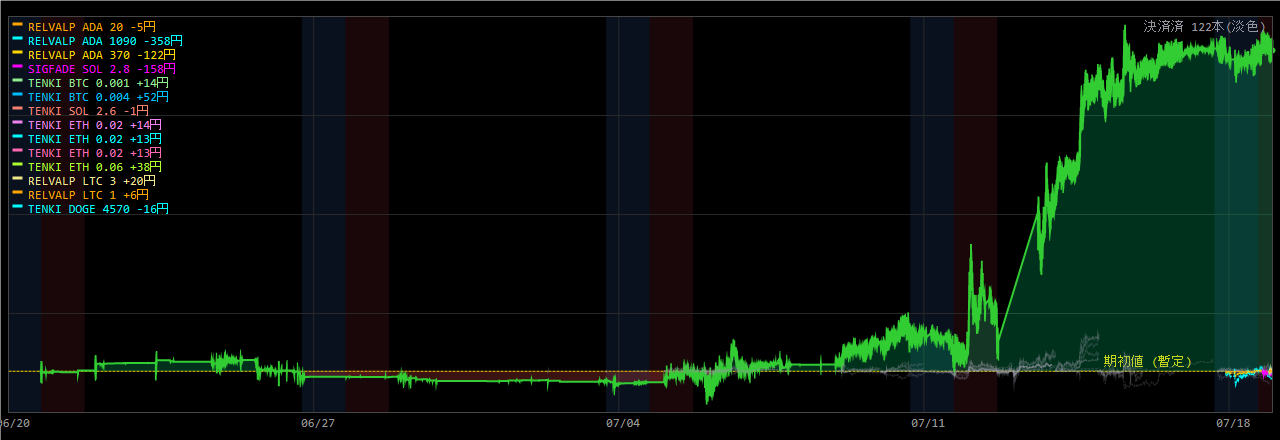
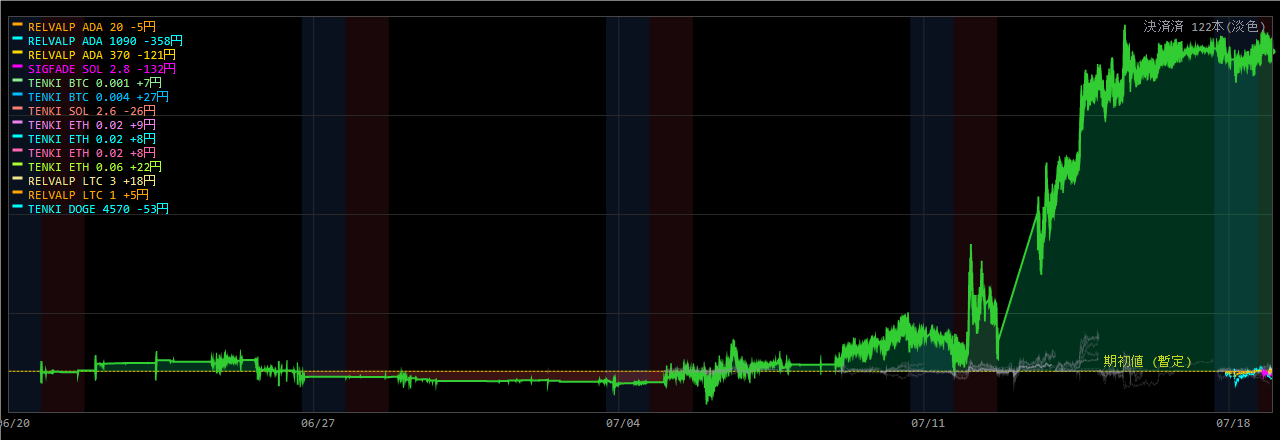
Coin100S 運用状況更新 07-19 08:11

diff --git a/coin100s-795hc4jfv8/index.html b/coin100s-795hc4jfv8/index.html
@@ -14,16 +14,16 @@ a{color:#60a5fa;text-decoration:none} a:hover{text-decoration:underline}
 .meta{color:#94a3b8;font-size:13px}</style>
 <script>setTimeout(function(){location.replace(location.pathname+"?t="+Date.now());},300000);</script></head><body>
 <h1>Coin100S ダッシュボード</h1>
-<p class="meta">スナップショット: 2026-07-19 08:04:50(自動リロード・最新化)</p>
+<p class="meta">スナップショット: 2026-07-19 08:10:50(自動リロード・最新化)</p>
 <div class="cards">
 <div class="card">建玉数<div class="v">14</div></div>
 <div class="card">本日損益<div class="v pos">+131円</div></div>
-<div class="card">評価損益<div class="v neg">-539円</div></div>
+<div class="card">評価損益<div class="v neg">-611円</div></div>
 </div>
 <h2>現在の建玉</h2>
-<table><tr><th>銘柄</th><th>側</th><th>数量</th><th>建値</th><th>含損益</th><th>レッグ</th></tr><tr><td>ADA_JPY</td><td>SELL</td><td>370</td><td>@27</td><td>-124円</td><td>RELVALP_SL700</td></tr><tr><td>ADA_JPY</td><td>SELL</td><td>1090</td><td>@27</td><td>-365円</td><td>RELVALP_SELL</td></tr><tr><td>ADA_JPY</td><td>SELL</td><td>20</td><td>@27</td><td>-5円</td><td>RELVALP_SELL</td></tr><tr><td>BTC_JPY</td><td>BUY</td><td>0.004</td><td>@10,508,065</td><td>+47円</td><td>TENKI5D_REV_BTC</td></tr><tr><td>BTC_JPY</td><td>BUY</td><td>0.001</td><td>@10,507,259</td><td>+12円</td><td>TENKI5D_REV_BTC</td></tr><tr><td>DOGE_JPY</td><td>BUY</td><td>4570</td><td>@12</td><td>-14円</td><td>TENKI5D_REV_DOGE</td></tr><tr><td>ETH_JPY</td><td>BUY</td><td>0.06</td><td>@301,910</td><td>+35円</td><td>TENKI5D_REV_ETH</td></tr><tr><td>ETH_JPY</td><td>BUY</td><td>0.02</td><td>@301,895</td><td>+12円</td><td>TENKI5D_REV_ETH</td></tr><tr><td>ETH_JPY</td><td>BUY</td><td>0.02</td><td>@301,872</td><td>+12円</td><td>TENKI5D_REV_ETH</td></tr><tr><td>ETH_JPY</td><td>BUY</td><td>0.02</td><td>@301,849</td><td>+13円</td><td>TENKI5D_REV_ETH</td></tr><tr><td>LTC_JPY</td><td>SELL</td><td>1</td><td>@7,635</td><td>-1円</td><td>RELVALP_SL700</td></tr><tr><td>LTC_JPY</td><td>SELL</td><td>3</td><td>@7,636</td><td>0円</td><td>RELVALP_SELL</td></tr><tr><td>SOL_JPY</td><td>BUY</td><td>2.6</td><td>@12,258</td><td>+7円</td><td>TENKI5D_REV_SOL</td></tr><tr><td>SOL_JPY</td><td>SELL</td><td>2.8</td><td>@12,201</td><td>-168円</td><td>SIGFADE_SOL</td></tr></table>
+<table><tr><th>銘柄</th><th>側</th><th>数量</th><th>建値</th><th>含損益</th><th>レッグ</th></tr><tr><td>ADA_JPY</td><td>SELL</td><td>370</td><td>@27</td><td>-124円</td><td>RELVALP_SL700</td></tr><tr><td>ADA_JPY</td><td>SELL</td><td>1090</td><td>@27</td><td>-365円</td><td>RELVALP_SELL</td></tr><tr><td>ADA_JPY</td><td>SELL</td><td>20</td><td>@27</td><td>-5円</td><td>RELVALP_SELL</td></tr><tr><td>BTC_JPY</td><td>BUY</td><td>0.004</td><td>@10,508,065</td><td>+20円</td><td>TENKI5D_REV_BTC</td></tr><tr><td>BTC_JPY</td><td>BUY</td><td>0.001</td><td>@10,507,259</td><td>+5円</td><td>TENKI5D_REV_BTC</td></tr><tr><td>DOGE_JPY</td><td>BUY</td><td>4570</td><td>@12</td><td>-14円</td><td>TENKI5D_REV_DOGE</td></tr><tr><td>ETH_JPY</td><td>BUY</td><td>0.06</td><td>@301,910</td><td>+15円</td><td>TENKI5D_REV_ETH</td></tr><tr><td>ETH_JPY</td><td>BUY</td><td>0.02</td><td>@301,895</td><td>+5円</td><td>TENKI5D_REV_ETH</td></tr><tr><td>ETH_JPY</td><td>BUY</td><td>0.02</td><td>@301,872</td><td>+5円</td><td>TENKI5D_REV_ETH</td></tr><tr><td>ETH_JPY</td><td>BUY</td><td>0.02</td><td>@301,849</td><td>+6円</td><td>TENKI5D_REV_ETH</td></tr><tr><td>LTC_JPY</td><td>SELL</td><td>1</td><td>@7,635</td><td>-1円</td><td>RELVALP_SL700</td></tr><tr><td>LTC_JPY</td><td>SELL</td><td>3</td><td>@7,636</td><td>0円</td><td>RELVALP_SELL</td></tr><tr><td>SOL_JPY</td><td>BUY</td><td>2.6</td><td>@12,258</td><td>-29円</td><td>TENKI5D_REV_SOL</td></tr><tr><td>SOL_JPY</td><td>SELL</td><td>2.8</td><td>@12,201</td><td>-129円</td><td>SIGFADE_SOL</td></tr></table>
 <p><a href="status.html"><b>▶ 運用状況の詳細(チャート・本日の取引・レジーム)</b></a></p>
 <h2>日報一覧</h2>
 <table><tr><th>取引日</th><th>実現損益</th><th>総括</th></tr><tr><td><a href='reports/20260718_Coin100S日報.html'>2026-07-18</a></td><td class="pos">+0円</td><td class='meta'>実取引: 新規9件/決済8件、実現損益 +0円。警告/孤児/エラーなし＝健全。</td></tr><tr><td><a href='reports/20260717_Coin100S日報.html'>2026-07-17</a></td><td class="pos">+0円</td><td class='meta'>実取引: 新規3件/決済2件、実現損益 +0円。シグナル却下1件（最多: BW10M3_5M／トレンド方向ゲート(N分傾き下と不一致=逆張り方向のfade禁止)）。⚠警告/エラー 2件（要確認）。</td></tr><tr><td><a href='reports/20260716_Coin100S日報.html'>2026-07-16</a></td><td class="pos">+0円</td><td class='meta'>実取引: 新規0件/決済5件、実現損益 +0円。⚠警告/エラー 7件（要確認）。</td></tr><tr><td><a href='reports/20260715_Coin100S日報.html'>2026-07-15</a></td><td class="pos">+0円</td><td class='meta'>実取引: 新規6件/決済5件、実現損益 +0円。シグナル却下6件（最多: BW10M3_5M／トレンド方向ゲート(N分傾き上と不一致=逆張り方向のfade禁止)）。⚠警告/エラー 7件（要確認）。</td></tr><tr><td><a href='reports/20260714_Coin100S日報.html'>2026-07-14</a></td><td class="pos">+0円</td><td class='meta'>実取引: 新規6件/決済18件、実現損益 +0円。シグナル却下5件（最多: BW10M3_5M／トレンド方向ゲート(N分傾き上と不一致=逆張り方向のfade禁止)）。⚠警告/エラー 9件（要確認）。</td></tr><tr><td><a href='reports/20260713_Coin100S日報.html'>2026-07-13</a></td><td class="pos">+0円</td><td class='meta'>実取引: 新規5件/決済8件、実現損益 +0円。シグナル却下1件（最多: BW10M3_5M／トレンド方向ゲート(N分傾き上と不一致=逆張り方向のfade禁止)）。警告/孤児/エラーなし＝健全。</td></tr><tr><td><a href='reports/20260712_Coin100S日報.html'>2026-07-12</a></td><td class="pos">+0円</td><td class='meta'>実取引: 新規14件/決済6件、実現損益 +0円。シグナル却下5件（最多: BW10M3_5M／トレンド方向ゲート(N分傾き下と不一致=逆張り方向のfade禁止)）。⚠警告/エラー 2件（要確認）。</td></tr><tr><td><a href='reports/20260711_Coin100S日報.html'>2026-07-11</a></td><td class="pos">+0円</td><td class='meta'>実取引: 新規7件/決済6件、実現損益 +0円。⚠警告/エラー 52件（要確認）。</td></tr><tr><td><a href='reports/20260710_Coin100S日報.html'>2026-07-10</a></td><td class="pos">+0円</td><td class='meta'>実取引: 新規7件/決済6件、実現損益 +0円。シグナル却下6件（最多: BW10M3_5M／トレンド方向ゲート(N分傾き上と不一致=逆張り方向のfade禁止)）。警告/孤児/エラーなし＝健全。</td></tr><tr><td><a href='reports/20260709_Coin100S日報.html'>2026-07-09</a></td><td class="pos">+0円</td><td class='meta'>実取引: 新規8件/決済3件、実現損益 +0円。シグナル却下5件（最多: SD120M_5M／トレンド方向ゲート(N分傾き上と不一致=逆張り方向のfade禁止)）。警告/孤児/エラーなし＝健全。</td></tr><tr><td><a href='reports/20260708_Coin100S日報.html'>2026-07-08</a></td><td class="pos">+0円</td><td class='meta'>実取引: 新規2件/決済4件、実現損益 +0円。シグナル却下4件（最多: SD120M_5M／トレンド方向ゲート(N分傾き下と不一致=逆張り方向のfade禁止)）。警告/孤児/エラーなし＝健全。</td></tr><tr><td><a href='reports/20260707_Coin100S日報.html'>2026-07-07</a></td><td class="pos">+0円</td><td class='meta'>実取引: 新規8件/決済6件、実現損益 +0円。シグナル却下4件（最多: SD120M_5M／トレンド方向ゲート(N分傾き上と不一致=逆張り方向のfade禁止)）。⚠警告/エラー 258件（要確認）。</td></tr><tr><td><a href='reports/20260706_Coin100S日報.html'>2026-07-06</a></td><td class="pos">+0円</td><td class='meta'>実取引: 新規9件/決済6件、実現損益 +0円。シグナル却下9件（最多: SD120M_5M／トレンド方向ゲート(N分傾き上と不一致=逆張り方向のfade禁止)）。⚠警告/エラー 150件（要確認）。</td></tr><tr><td><a href='reports/20260705_Coin100S日報.html'>2026-07-05</a></td><td class="pos">+0円</td><td class='meta'>実取引: 新規8件/決済3件、実現損益 +0円。⚠警告/エラー 2件（要確認）。</td></tr><tr><td><a href='reports/20260704_Coin100S日報.html'>2026-07-04</a></td><td class="pos">+0円</td><td class='meta'>実取引: 新規1件/決済2件、実現損益 +0円。⚠警告/エラー 2件（要確認）。</td></tr><tr><td><a href='reports/20260703_Coin100S日報.html'>2026-07-03</a></td><td class="pos">+0円</td><td class='meta'>実取引: 新規5件/決済4件、実現損益 +0円。⚠警告/エラー 15件（要確認）。</td></tr><tr><td><a href='reports/20260702_Coin100S日報.html'>2026-07-02</a></td><td class="pos">+0円</td><td class='meta'>実取引: 新規7件/決済5件、実現損益 +0円。シグナル却下17件（最多: SD120M_5M／トレンド方向ゲート(N分傾き上と不一致=逆張り方向のfade禁止)）。⚠警告/エラー 26件（要確認）。</td></tr><tr><td><a href='reports/20260701_Coin100S日報.html'>2026-07-01</a></td><td class="pos">+0円</td><td class='meta'>実取引: 新規14件/決済8件、実現損益 +0円。シグナル却下14件（最多: SD120M_5M／ボラ軸ゲート(SDN%&amp;gt;N%=高ボラ/荒れレンジ)）。⚠警告/エラー 2件（要確認）。</td></tr><tr><td><a href='reports/20260630_Coin100S日報.html'>2026-06-30</a></td><td class="pos">+0円</td><td class='meta'>実取引: 新規0件/決済1件、実現損益 +0円。シグナル却下29件（最多: 微5M／当日枠N）。警告/孤児/エラーなし＝健全。</td></tr></table>
-<hr><p class="meta">更新: 2026-07-19 08:05:05 / 自動生成: tools/web_publish.py(§580)</p>
+<hr><p class="meta">更新: 2026-07-19 08:11:05 / 自動生成: tools/web_publish.py(§580)</p>
 </body></html>

diff --git a/coin100s-795hc4jfv8/status.html b/coin100s-795hc4jfv8/status.html
@@ -14,22 +14,22 @@ a{color:#60a5fa;text-decoration:none} a:hover{text-decoration:underline}
 .meta{color:#94a3b8;font-size:13px}</style>
 <script>setTimeout(function(){location.replace(location.pathname+"?t="+Date.now());},300000);</script></head><body>
 <h1>Coin100S 運用状況</h1>
-<p class="meta">スナップショット: 2026-07-19 08:04:50 / ページ生成: 2026-07-19 08:05:05(自動リロード・最新化) / <a href="index.html">目次へ</a></p>
+<p class="meta">スナップショット: 2026-07-19 08:10:50 / ページ生成: 2026-07-19 08:11:05(自動リロード・最新化) / <a href="index.html">目次へ</a></p>
 <div class="cards">
 <div class="card">建玉数<div class="v">14</div></div>
 <div class="card">本日損益<div class="v pos">+131円</div></div>
-<div class="card">評価損益<div class="v neg">-539円</div></div>
+<div class="card">評価損益<div class="v neg">-611円</div></div>
 </div>
 <h2>資産推移(直近30日)</h2>
-<img src="status_equity.png?t=0805" alt="equity">
+<img src="status_equity.png?t=0811" alt="equity">
 <h2>取引チャート(直近24h)</h2>
-<img src="status_chart.png?t=0805" alt="chart">
+<img src="status_chart.png?t=0811" alt="chart">
 <h2>建玉一覧</h2>
-<table><tr><th>銘柄</th><th>側</th><th>数量</th><th>建値</th><th>含損益</th><th>レッグ</th></tr><tr><td>ADA_JPY</td><td>SELL</td><td>370</td><td>@27</td><td>-124円</td><td>RELVALP_SL700</td></tr><tr><td>ADA_JPY</td><td>SELL</td><td>1090</td><td>@27</td><td>-365円</td><td>RELVALP_SELL</td></tr><tr><td>ADA_JPY</td><td>SELL</td><td>20</td><td>@27</td><td>-5円</td><td>RELVALP_SELL</td></tr><tr><td>BTC_JPY</td><td>BUY</td><td>0.004</td><td>@10,508,065</td><td>+47円</td><td>TENKI5D_REV_BTC</td></tr><tr><td>BTC_JPY</td><td>BUY</td><td>0.001</td><td>@10,507,259</td><td>+12円</td><td>TENKI5D_REV_BTC</td></tr><tr><td>DOGE_JPY</td><td>BUY</td><td>4570</td><td>@12</td><td>-14円</td><td>TENKI5D_REV_DOGE</td></tr><tr><td>ETH_JPY</td><td>BUY</td><td>0.06</td><td>@301,910</td><td>+35円</td><td>TENKI5D_REV_ETH</td></tr><tr><td>ETH_JPY</td><td>BUY</td><td>0.02</td><td>@301,895</td><td>+12円</td><td>TENKI5D_REV_ETH</td></tr><tr><td>ETH_JPY</td><td>BUY</td><td>0.02</td><td>@301,872</td><td>+12円</td><td>TENKI5D_REV_ETH</td></tr><tr><td>ETH_JPY</td><td>BUY</td><td>0.02</td><td>@301,849</td><td>+13円</td><td>TENKI5D_REV_ETH</td></tr><tr><td>LTC_JPY</td><td>SELL</td><td>1</td><td>@7,635</td><td>-1円</td><td>RELVALP_SL700</td></tr><tr><td>LTC_JPY</td><td>SELL</td><td>3</td><td>@7,636</td><td>0円</td><td>RELVALP_SELL</td></tr><tr><td>SOL_JPY</td><td>BUY</td><td>2.6</td><td>@12,258</td><td>+7円</td><td>TENKI5D_REV_SOL</td></tr><tr><td>SOL_JPY</td><td>SELL</td><td>2.8</td><td>@12,201</td><td>-168円</td><td>SIGFADE_SOL</td></tr></table>
+<table><tr><th>銘柄</th><th>側</th><th>数量</th><th>建値</th><th>含損益</th><th>レッグ</th></tr><tr><td>ADA_JPY</td><td>SELL</td><td>370</td><td>@27</td><td>-124円</td><td>RELVALP_SL700</td></tr><tr><td>ADA_JPY</td><td>SELL</td><td>1090</td><td>@27</td><td>-365円</td><td>RELVALP_SELL</td></tr><tr><td>ADA_JPY</td><td>SELL</td><td>20</td><td>@27</td><td>-5円</td><td>RELVALP_SELL</td></tr><tr><td>BTC_JPY</td><td>BUY</td><td>0.004</td><td>@10,508,065</td><td>+20円</td><td>TENKI5D_REV_BTC</td></tr><tr><td>BTC_JPY</td><td>BUY</td><td>0.001</td><td>@10,507,259</td><td>+5円</td><td>TENKI5D_REV_BTC</td></tr><tr><td>DOGE_JPY</td><td>BUY</td><td>4570</td><td>@12</td><td>-14円</td><td>TENKI5D_REV_DOGE</td></tr><tr><td>ETH_JPY</td><td>BUY</td><td>0.06</td><td>@301,910</td><td>+15円</td><td>TENKI5D_REV_ETH</td></tr><tr><td>ETH_JPY</td><td>BUY</td><td>0.02</td><td>@301,895</td><td>+5円</td><td>TENKI5D_REV_ETH</td></tr><tr><td>ETH_JPY</td><td>BUY</td><td>0.02</td><td>@301,872</td><td>+5円</td><td>TENKI5D_REV_ETH</td></tr><tr><td>ETH_JPY</td><td>BUY</td><td>0.02</td><td>@301,849</td><td>+6円</td><td>TENKI5D_REV_ETH</td></tr><tr><td>LTC_JPY</td><td>SELL</td><td>1</td><td>@7,635</td><td>-1円</td><td>RELVALP_SL700</td></tr><tr><td>LTC_JPY</td><td>SELL</td><td>3</td><td>@7,636</td><td>0円</td><td>RELVALP_SELL</td></tr><tr><td>SOL_JPY</td><td>BUY</td><td>2.6</td><td>@12,258</td><td>-29円</td><td>TENKI5D_REV_SOL</td></tr><tr><td>SOL_JPY</td><td>SELL</td><td>2.8</td><td>@12,201</td><td>-129円</td><td>SIGFADE_SOL</td></tr></table>
 <h2>実現決済履歴(直近15件・OrderId単位)</h2>
 <table><tr><th>決済時刻</th><th>レッグ</th><th>銘柄</th><th>実現損益</th></tr><tr><td>07-19 08:01</td><td>TENKI5D_REV_DOGE</td><td>DOGE</td><td class="neg">-41円</td></tr><tr><td>07-19 06:16</td><td>SIGFADE_BTC</td><td>BTC</td><td class="neg">-627円</td></tr><tr><td>07-19 06:03</td><td>TENKI5D_REV_BTC</td><td>BTC</td><td class="pos">+92円</td></tr><tr><td>07-19 06:03</td><td>TENKI5D_REV_ETH</td><td>ETH</td><td class="pos">+212円</td></tr><tr><td>07-19 06:03</td><td>TENKI5D_REV_SOL</td><td>SOL</td><td class="pos">+128円</td></tr><tr><td>07-19 06:03</td><td>TENKI5D_REV_BTC</td><td>BTC</td><td class="pos">+367円</td></tr><tr><td>07-19 02:41</td><td>SIGFADE_ETH</td><td>ETH</td><td class="pos">+103円</td></tr><tr><td>07-19 01:53</td><td>SIGFADE_SOL</td><td>SOL</td><td class="pos">+9円</td></tr><tr><td>07-19 01:53</td><td>SIGFADE_SOL</td><td>SOL</td><td class="pos">+9円</td></tr><tr><td>07-18 21:23</td><td>SIGFADE_ETH</td><td>ETH</td><td class="pos">+114円</td></tr><tr><td>07-18 21:23</td><td>SIGFADE_ETH</td><td>ETH</td><td class="pos">+11円</td></tr><tr><td>07-18 18:31</td><td>SIGFADE_SOL</td><td>SOL</td><td class="pos">+119円</td></tr><tr><td>07-18 18:31</td><td>SIGFADE_SOL</td><td>SOL</td><td class="pos">+11円</td></tr><tr><td>07-18 18:31</td><td>SIGFADE_SOL</td><td>SOL</td><td class="pos">+200円</td></tr><tr><td>07-17 23:37</td><td>RELVALP_SL700</td><td>ETH</td><td class="pos">+497円</td></tr></table>
 <!-- §799c 「本取引日の実取引(6:00起点)」テーブルは公開ページから削除(ユーザー指示2026-07-15・数量/指値まで晒す情報漏れ)。建玉/実現損益は許可・実発注の生取引明細は非公開 -->
 <h2>現在レジーム(3軸・§570c)</h2>
-<ul><li>アルト対BTC 5日: <b>-151bps</b>(アルト劣後=RELVAL順風)</li><li>BTC ER240m: <b>0.086</b>(閾値0.25→レンジ(fade順風/BWTRD逆風))</li><li>BTC実現ボラ240m: <b>2.90</b> bps/分</li></ul>
+<ul><li>アルト対BTC 5日: <b>-151bps</b>(アルト劣後=RELVAL順風)</li><li>BTC ER240m: <b>0.068</b>(閾値0.25→レンジ(fade順風/BWTRD逆風))</li><li>BTC実現ボラ240m: <b>2.92</b> bps/分</li></ul>
 <hr><p class="meta">自動生成: tools/web_publish.py(§580・読み取り専用)。売買判断はアプリ本体。</p>
 </body></html>
